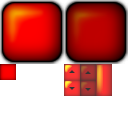
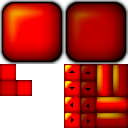
Completed themes for textboxes with horizontal scrollbars.

Changed region(s): [[0.5, 0.5, 1.0, 1.0], [0.0, 0.625, 0.25, 0.75]]

diff --git a/Source/DFPSR/gui/components/helpers/ScrollBarImpl.cpp b/Source/DFPSR/gui/components/helpers/ScrollBarImpl.cpp
@@ -26,10 +26,10 @@
 using namespace dsr;
 
 void ScrollBarImpl::loadTheme(VisualTheme theme, const ColorRgbI32 &color) {
-	this->scalableImage_scrollTop = theme_getScalableImage(theme, U"ScrollUp");
-	this->scalableImage_scrollBottom = theme_getScalableImage(theme, U"ScrollDown");
-	this->scalableImage_verticalScrollKnob = theme_getScalableImage(theme, U"VerticalScrollKnob");
-	this->scalableImage_verticalScrollBackground = theme_getScalableImage(theme, U"VerticalScrollList");
+	this->scalableImage_scrollTop = theme_getScalableImage(theme, this->vertical ? U"ScrollUp" : U"ScrollLeft");
+	this->scalableImage_scrollBottom = theme_getScalableImage(theme, this->vertical ? U"ScrollDown" : U"ScrollRight");
+	this->scalableImage_scrollKnob = theme_getScalableImage(theme, this->vertical ? U"VerticalScrollKnob" : U"HorizontalScrollKnob");
+	this->scalableImage_scrollBackground = theme_getScalableImage(theme, this->vertical ? U"VerticalScrollList" : U"HorizontalScrollList");
 	component_generateImage(theme, this->scalableImage_scrollTop,     this->scrollBarThickness,  this->scrollButtonLength, color.red, color.green, color.blue, 0)(this->scrollButtonTopImage_normal);
 	component_generateImage(theme, this->scalableImage_scrollTop,     this->scrollBarThickness,  this->scrollButtonLength, color.red, color.green, color.blue, 1)(this->scrollButtonTopImage_pressed);	
 	component_generateImage(theme, this->scalableImage_scrollBottom,  this->scrollBarThickness,  this->scrollButtonLength, color.red, color.green, color.blue, 0)(this->scrollButtonBottomImage_normal);
@@ -147,20 +147,21 @@ void ScrollBarImpl::draw(OrderedImageRgbaU8 &target, VisualTheme &theme, const C
 		IRect lower = getEndRect(scrollBarLocation, this->scrollButtonLength, this->vertical);
 		IRect knob = this->getKnobLocation(scrollBarLocation);
 		// Only redraw the knob image if its dimensions changed
-		if (!image_exists(this->scrollKnobImage)
-		  || image_getWidth(this->scrollKnobImage) != knob.width()
-		  || image_getHeight(this->scrollKnobImage) != knob.height()) {
-			component_generateImage(theme, this->scalableImage_verticalScrollKnob, knob.width(), knob.height(), color.red, color.green, color.blue, 0)(this->scrollKnobImage);
+		if (!image_exists(this->scrollKnobImage_normal)
+		  || image_getWidth(this->scrollKnobImage_normal) != knob.width()
+		  || image_getHeight(this->scrollKnobImage_normal) != knob.height()) {
+			component_generateImage(theme, this->scalableImage_scrollKnob, knob.width(), knob.height(), color.red, color.green, color.blue, 0)(this->scrollKnobImage_normal);
+			component_generateImage(theme, this->scalableImage_scrollKnob, knob.width(), knob.height(), color.red, color.green, color.blue, 1)(this->scrollKnobImage_pressed);
 		}
 		// Only redraw the scroll list if its dimenstions changed
-		if (!image_exists(this->verticalScrollBarImage)
-		  || image_getWidth(this->verticalScrollBarImage) != scrollBarLocation.width()
-		  || image_getHeight(this->verticalScrollBarImage) != scrollBarLocation.height()) {
-			component_generateImage(theme, this->scalableImage_verticalScrollBackground, scrollBarLocation.width(), scrollBarLocation.height(), color.red, color.green, color.blue, 0)(this->verticalScrollBarImage);
+		if (!image_exists(this->scrollBarImage)
+		  || image_getWidth(this->scrollBarImage) != scrollBarLocation.width()
+		  || image_getHeight(this->scrollBarImage) != scrollBarLocation.height()) {
+			component_generateImage(theme, this->scalableImage_scrollBackground, scrollBarLocation.width(), scrollBarLocation.height(), color.red, color.green, color.blue, 0)(this->scrollBarImage);
 		}
 		// Draw the scroll-bar
-		draw_alphaFilter(target, this->verticalScrollBarImage, scrollBarLocation.left(), scrollBarLocation.top());
-		draw_alphaFilter(target, this->scrollKnobImage, knob.left(), knob.top());
+		draw_alphaFilter(target, this->scrollBarImage, scrollBarLocation.left(), scrollBarLocation.top());
+		draw_alphaFilter(target, this->holdingScrollBar ? this->scrollKnobImage_pressed : this->scrollKnobImage_normal, knob.left(), knob.top());
 		draw_alphaFilter(target, this->pressScrollUp ? this->scrollButtonTopImage_pressed : this->scrollButtonTopImage_normal, upper.left(), upper.top());
 		draw_alphaFilter(target, this->pressScrollDown ? this->scrollButtonBottomImage_pressed : this->scrollButtonBottomImage_normal, lower.left(), lower.top());
 	}

diff --git a/Source/DFPSR/gui/components/helpers/ScrollBarImpl.h b/Source/DFPSR/gui/components/helpers/ScrollBarImpl.h
@@ -69,9 +69,12 @@ private:
 	int64_t reservedStart = 0; // How many pixels to leave empty at the left/top side to avoid collisions.
 	int64_t reservedEnd = 0; // How many pixels to leave empty at the right/bottom side to avoid collisions.
 	// Scalable parametric images.
-	MediaMethod scalableImage_scrollTop, scalableImage_scrollBottom, scalableImage_verticalScrollBackground, scalableImage_verticalScrollKnob;
+	MediaMethod scalableImage_scrollTop, scalableImage_scrollBottom, scalableImage_scrollBackground, scalableImage_scrollKnob;
 	// Generated raster images.
-	OrderedImageRgbaU8 scrollButtonTopImage_normal, scrollButtonTopImage_pressed, scrollButtonBottomImage_normal, scrollButtonBottomImage_pressed, scrollKnobImage, verticalScrollBarImage;
+	OrderedImageRgbaU8 scrollButtonTopImage_normal, scrollButtonTopImage_pressed;
+	OrderedImageRgbaU8 scrollButtonBottomImage_normal, scrollButtonBottomImage_pressed;
+	OrderedImageRgbaU8 scrollKnobImage_normal, scrollKnobImage_pressed;
+	OrderedImageRgbaU8 scrollBarImage;
 private:
 	IRect getScrollBarLocation(int32_t parentWidth, int32_t parentHeight);
 	IRect getScrollRegion(const IRect &scrollBarLocation);

diff --git a/Source/DFPSR/gui/VisualTheme.cpp b/Source/DFPSR/gui/VisualTheme.cpp
@@ -150,6 +150,19 @@ BEGIN: VerticalScrollList
 	PACK_RGBA: colorImage, 0, 0, 0, visImage
 END:
 
+BEGIN: HorizontalScrollList
+	INPUT: FixedPoint, width
+	INPUT: FixedPoint, height
+	INPUT: FixedPoint, red
+	INPUT: FixedPoint, green
+	INPUT: FixedPoint, blue
+	OUTPUT: ImageRgbaU8, colorImage
+	CREATE: visImage<ImageU8>, width, height
+	CREATE: lumaImage<ImageU8>, width, height
+	FADE_LINEAR: visImage, 0, 0, 128, 0, height, 0
+	PACK_RGBA: colorImage, 0, 0, 0, visImage
+END:
+
 BEGIN: TextBox
 	INPUT: FixedPoint, width
 	INPUT: FixedPoint, height
@@ -183,11 +196,19 @@ UR"QUOTE(
 		method = "TextBox"
 	[VerticalScrollKnob]
 		rounding = 8
+	[HorizontalScrollKnob]
+		rounding = 8
 	[VerticalScrollList]
 		method = "VerticalScrollList"
+	[HorizontalScrollList]
+		method = "HorizontalScrollList"
 	[ScrollUp]
 		rounding = 5
 	[ScrollDown]
+		rounding = 5
+	[ScrollLeft]
+		rounding = 5
+	[ScrollRight]
 		rounding = 5
 	[Panel]
 		border = 1

diff --git a/Source/DFPSR/gui/components/TextBox.h b/Source/DFPSR/gui/components/TextBox.h
@@ -29,8 +29,6 @@
 #include "../../api/fontAPI.h"
 #include "../../math/LVector.h"
 
-// TODO: Make a theme for the horizontal scroll-bar.
-
 namespace dsr {
 
 struct LineIndex {
